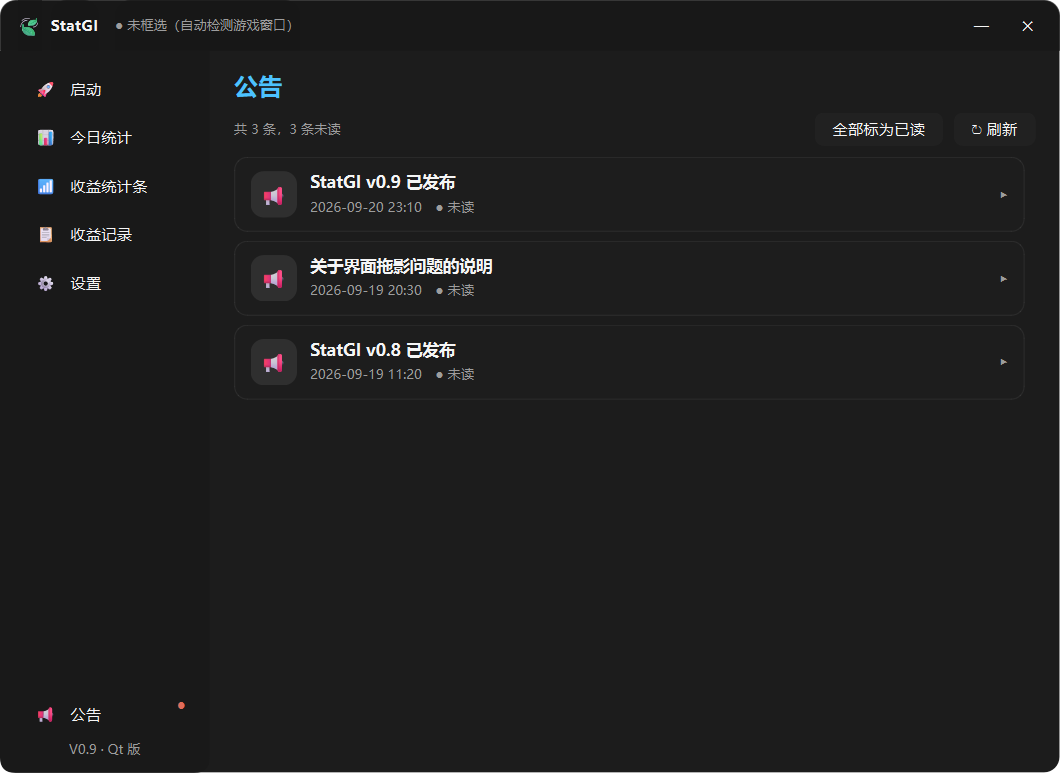
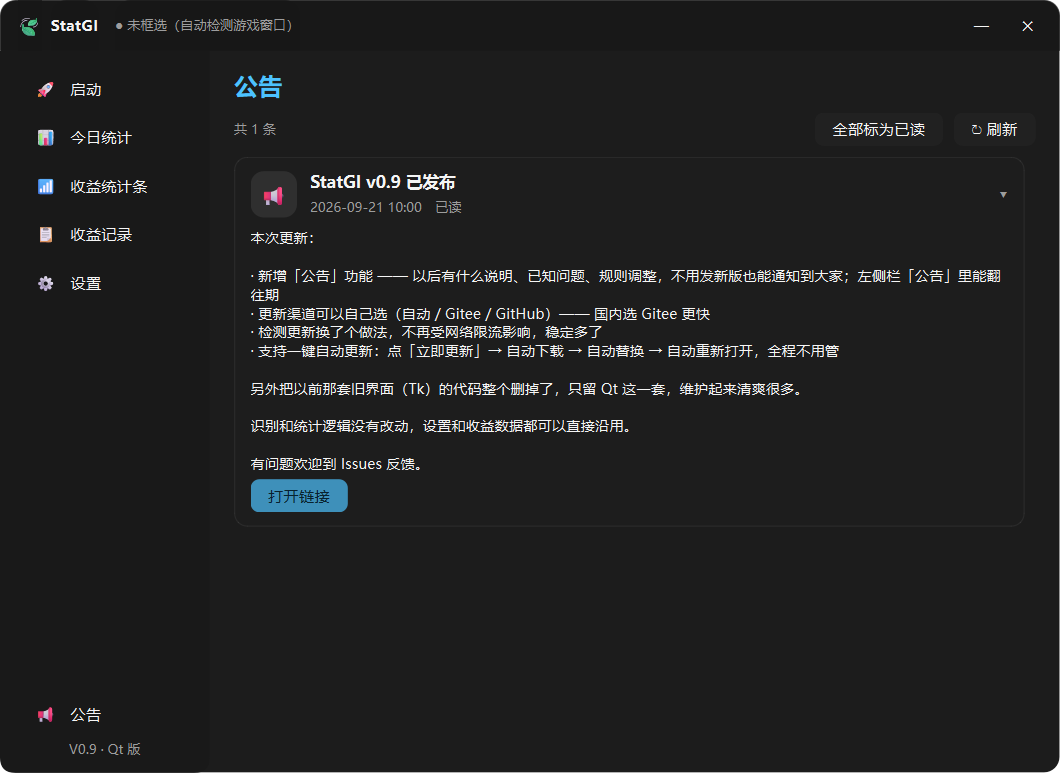
修公告清空同步不了的 bug：空列表被当成拉取失败；新增 v0.9 公告

diff --git a/statgi_qt/qt_notice.py b/statgi_qt/qt_notice.py
@@ -140,8 +140,19 @@ def load_builtin():
 
 
 def load_all(settings=None):
-    """给界面用：缓存 > 内置。返回公告列表（最新在前）"""
-    return load_cached() or load_builtin()
+    """给界面用：有缓存就用缓存，没缓存才用内置的
+
+    ⚠ 不能写成 `load_cached() or load_builtin()`：
+    空列表是假值，会把「远端已经清空公告」当成「没缓存」，
+    然后退回内置的那份（里面可能还留着老公告）—— 公告就删不干净了。
+    所以这里按**文件在不在**来判断，不看列表空不空。
+    """
+    try:
+        if cache_file().exists():
+            return load_cached()
+    except Exception:
+        pass
+    return load_builtin()
 
 
 def save_cache(notices):
@@ -155,29 +166,52 @@ def save_cache(notices):
 
 
 def _fetch_one(url, bust_cache=False):
+    """拉一个源。返回 (拿到没有, 公告列表)
+
+    ⚠ 为什么把「拿到没有」和「列表」分开返回：
+    「公告被清空」也是一个**有效状态** —— 远端就是 {"notices": []}。
+    如果只看列表真假（if lst:），空列表会被当成"没拉到"，
+    结果就是：**用户永远删不掉公告**（本地一直用旧缓存）——
+    这个 bug 真出现过。所以要明确区分「拉到了但是空的」和「根本没拉到」。
+    """
     u = url
     if bust_cache:
         u += ("&" if "?" in url else "?") + "t=%d" % int(time.time())
     req = urllib.request.Request(u, headers=UA)
     with urllib.request.urlopen(req, timeout=TIMEOUT) as resp:
         raw = resp.read().decode("utf-8", errors="replace")
-    return parse(raw)
+    try:
+        d = json.loads(raw)
+    except Exception:
+        return False, []
+    if not isinstance(d, dict):
+        return False, []
+    # 新格式：有 notices 键（哪怕数组是空的）就算合法
+    if isinstance(d.get("notices"), list):
+        return True, parse(d)
+    # 旧格式：整个对象就是一条公告
+    if str(d.get("id", "")).strip() and str(d.get("title", "")).strip():
+        return True, parse(d)
+    return False, []
 
 
 def fetch(bust_cache=False):
-    """按顺序试每个源，返回 (公告列表, 命中的源地址)
+    """按顺序试每个源。返回 (公告列表, 命中的源地址)
 
-    全失败返回 ([], None) —— 调用方不用管错误，静默处理就行。
+    公告列表可以是**空列表** —— 那表示「远端把公告清空了」，
+    是个有效结果，调用方要按这个把本地缓存也清掉。
+
+    全部源都拉不到才返回 (None, None)，调用方保持现状即可。
     """
     for url in NOTICE_SOURCES:
         try:
-            lst = _fetch_one(url, bust_cache)
-            if lst:
-                save_cache(lst)               # 拉到就缓存，断网时还能看
+            ok, lst = _fetch_one(url, bust_cache)
+            if ok:
+                save_cache(lst)               # 空的也要存 —— 那代表"清空了"
                 return lst, url
         except Exception:
             continue                          # 这个源不行就试下一个
-    return [], None
+    return None, None
 
 
 # ------------------------------------------------------------
@@ -186,8 +220,12 @@ class NoticeFetcher(QObject):
 
     用法：
         f = NoticeFetcher()
-        f.done.connect(收到公告的函数)     # 参数是 公告列表（可能为空）
+        f.done.connect(收到公告的函数)     # 参数是 公告列表，或 None
         f.start()
+
+    done 发出来的东西有两种：
+        []      拉到了，但远端一条公告都没有（公告被清空了 —— 有效结果）
+        None    一个源都没拉到（没网 / 都被墙），调用方保持现状
 
     ⚠ 为什么用信号而不是直接回调：这个类的活儿在后台线程跑，
     直接调回调就等于在别的线程里碰 Qt 控件 —— 会崩。
@@ -200,7 +238,7 @@ class NoticeFetcher(QObject):
         threading.Thread(target=self._work, args=(bust_cache,), daemon=True).start()
 
     def _work(self, bust_cache):
-        lst = []
+        lst = None
         try:
             global _fetching
             with _lock:
@@ -210,7 +248,7 @@ class NoticeFetcher(QObject):
             try:
                 lst, _src = fetch(bust_cache=bust_cache)
             except Exception:
-                lst = []
+                lst = None
             finally:
                 with _lock:
                     _fetching = False

diff --git a/statgi_qt/qt_pages.py b/statgi_qt/qt_pages.py
@@ -1757,14 +1757,23 @@ class PageNotice(BasePage):
         self._fetcher.start(bust_cache=True)
 
     def _on_refreshed(self, notices):
+        """手动刷新回来了
+
+        notices 为 None = 一个源都没拉到（保持现状）；
+        为空列表 = 拉到了，远端确实一条公告都没有（要把本地的也清掉）。
+        """
         self.refresh_btn.setEnabled(True)
         self.refresh_btn.setText("↻ 刷新")
-        if notices:
-            self.set_notices(notices)
-            QMessageBox.information(self, "已刷新", f"拉到 {len(notices)} 条公告。")
-        else:
+        if notices is None:
             QMessageBox.information(self, "刷新失败", "没拉到公告（可能是网络问题）。\n"
                                                       "显示的还是上次缓存的内容。")
+            return
+        self.set_notices(notices)
+        if notices:
+            QMessageBox.information(self, "已刷新", f"拉到 {len(notices)} 条公告。")
+        else:
+            QMessageBox.information(self, "已刷新", "远端现在一条公告都没有。\n"
+                                                    "（可能刚被清空）")
 
     def on_show(self):
         # 切到本页时重新读一次（可能后台刚拉到新的）

diff --git a/statgi_qt/qt_window.py b/statgi_qt/qt_window.py
@@ -347,8 +347,13 @@ class MainWindow(QWidget):
             log_exc("qt_window 公告")
 
     def _on_notice(self, notices):
-        """公告拉回来了（这里已经在主线程 —— 信号跨线程是安全的）"""
-        if not notices:
+        """公告拉回来了（这里已经在主线程 —— 信号跨线程是安全的）
+
+        notices 有两种：
+            []      拉到了，远端一条公告都没有（公告被清空）→ 要跟着清空
+            None    一个源都没拉到 → 保持现状（用缓存），别乱动
+        """
+        if notices is None:
             return
         try:
             self.set_notice(notices)
